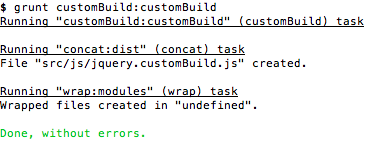
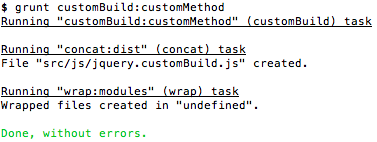
Updated jqcon talk

diff --git a/index.html b/index.html
@@ -15,6 +15,7 @@
           <img src="imgs/jqueryui.png" alt="" title="jQueryUI Widget Factory">
           <img src="imgs/constructionhat.png" alt="" title="jqfactory">
           <img src="imgs/grunt.jpeg" alt="" title="Grunt">
+          <img src="imgs/downloadbuilder.png" alt="" title="DownloadBuilder" class="downloadbuilder-img">
         </div>
         Slides: <a href="http://gregfranko.com/modular-jquery-plugins-talk/">http://gregfranko.com/modular-jquery-plugins-talk/</a>
       </section>
@@ -175,32 +176,32 @@ $.widget("an.example", {
             Create a web build process
         </li>
       </section>
-      <section data-bespoke-state="pre-progress clean color concave" class="font">
-        <h2 data-bespoke-bullet>Let's Create Our First File!</h2>
-          <li data-bespoke-bullet>
-            <span class="bold">This file will hold our plugin constructor function</span>
-            <pre>
-<code data-language="javascript">
-// _create.js
-// ----------
-var example = {};
-example._create = function() {
-  // Our constructor logic goes here
-};
-              </code>
-          </pre>
-          </li>
-      </section>
       <section data-bespoke-state="pre-progress clean color cards" class="font">
-        <h2 data-bespoke-bullet>On To The Next File!</h2>
+        <h2 data-bespoke-bullet>Let's Create Our First File!</h2>
           <li data-bespoke-bullet>
             <span class="bold">This file will hold our default options</span>
             <pre>
 <code data-language="javascript">
 // options.js
 // ----------
+var example = {};
 example.options = {
   someOption: true
+};
+              </code>
+          </pre>
+          </li>
+      </section>
+      <section data-bespoke-state="pre-progress clean color concave" class="font">
+        <h2 data-bespoke-bullet>On To The Next File!</h2>
+          <li data-bespoke-bullet>
+            <span class="bold">This file will hold our plugin constructor function</span>
+            <pre>
+<code data-language="javascript">
+// _create.js
+// ----------
+example._create = function() {
+  // Our constructor logic goes here
 };
               </code>
           </pre>
@@ -309,7 +310,7 @@ $.widget("an.example", example);
           </li>
       </section>
       <section data-bespoke-state="pre-progress clean color coverflow" class="font">
-        <h2 data-bespoke-bullet class="smaller-header slide-header">jQueryUI Widget Factory or jfactory?</h2>
+        <h2 data-bespoke-bullet class="smaller-header slide-header">jQueryUI Widget Factory or jqfactory?</h2>
         <div class="bullet-grouping clear jquery-widget-factory">
           <li data-bespoke-bullet><span class="bold">It depends</span></li>
           <li data-bespoke-bullet>Both are great solutions with fundamental differences</li>
@@ -415,6 +416,20 @@ grunt.registerTask('customBuild', 'customBuild task', function() {
           <span class="bold">On The Command Line:</span>
           <pre>
             <code data-language="javascript">
+            grunt customBuild
+            </code>
+          </pre>
+        </li>
+        <li data-bespoke-bullet>
+          <span class="bold">This would include all of our files</span>
+        </li>
+      </section>
+      <section data-bespoke-state="pre-progress clean color coverflow" class="font">
+        <h2 data-bespoke-bullet>Excluding a File In Your Build</h2>
+        <li data-bespoke-bullet>
+          <span class="bold">On The Command Line:</span>
+          <pre>
+            <code data-language="javascript">
             grunt customBuild:customMethod
             </code>
           </pre>
@@ -474,12 +489,121 @@ $.widget("an.example", example);
             Create a web build process
         </li>
       </section>
+      <section data-bespoke-state="pre-progress clean color cards" class="font">
+        <h2 data-bespoke-bullet class="">Web Custom Build</h2>
+        <div class="inspiration-images">
+          <li data-bespoke-bullet>
+            With DownloadBuilder.js!
+          </li>
+        </div>
+      </section>
+      <section data-bespoke-state="pre-progress clean color cards" class="font">
+        <img src="imgs/downloadbuilder.png" alt="" title="jQueryUI Widget Factory" class="float-left margin-left downloadbuilder-page-img">
+        <h2 data-bespoke-bullet class="float-left margin-left">DownloadBuilder.js</h2>
+        <div class="bullet-grouping clear margin-left">
+          <li data-bespoke-bullet>
+            Fetches and Concatenates Files From Github
+          </li>
+          <li data-bespoke-bullet>
+            Saves files using the HTML5 FileSystem API
+          </li>
+          <li data-bespoke-bullet>
+            Supports caching via HTML5 Session Storage
+          </li>
+        </div>
+      </section>
+      <section data-bespoke-state="pre-progress clean color cards" class="font">
+      <h2 data-bespoke-bullet>First Step</h2>
+          <li data-bespoke-bullet>
+            <span class="bold">Create your HTML</span>
+          </li>
+          <li data-bespoke-bullet>
+            <pre class="downloadbuilder-example">
+<code data-language="html">
+<input class="hidden" checked="checked" type="checkbox" value="src/js/options.js">
+<input class="hidden" checked="checked" type="checkbox" value="src/js/_create.js">
+<input class="hidden" checked="checked" type="checkbox" value="src/js/_plugin.js">
+<input class="visible" type="checkbox" value="src/js/customMethod.js">
+              </code>
+          </pre>
+          </li>
+      </section>
+      <section data-bespoke-state="pre-progress clean color cards" class="font">
+      <h2 data-bespoke-bullet>Second Step</h2>
+          <li data-bespoke-bullet>
+            <span class="bold">Create a builder instance</span>
+          </li>
+          <li data-bespoke-bullet>
+            <pre class="downloadbuilder-example2">
+<code data-language="javascript">
+                  var builder = new DownloadBuilder({
+                    location: 'github',
+                    author: 'gfranko',
+                    repo: 'jquery.examplePlugin.js',
+                    branch: 'master',
+                    cache: true,
+                    client_id: '',
+                    client_secret: ''
+                  });
+              </code>
+          </pre>
+          </li>
+          <li data-bespoke-bullet>
+            Sorry, you have to use the new keyword
+          </li>
+      </section>
+      <section data-bespoke-state="pre-progress clean color cards" class="font">
+      <h2 data-bespoke-bullet>Final Step</h2>
+          <li data-bespoke-bullet>
+            <span class="bold">Build Your File</span>
+          </li>
+          <li data-bespoke-bullet>
+            <pre class="downloadbuilder-example2">
+<code data-language="javascript">
+$('#generate-button').on('click', function() {
+  var checkedBoxes = $('#js-files:checked'),
+    fileName = 'jquery.examplePlugin.custom.js',
+    language = 'javascript';
+
+  builder.buildURL(checkedBoxes, fileName, language, function(data) {
+    /*
+    file - data.content
+    file url - data.url
+    file name - data.fileName
+    file language - data.lang
+    */
+  });
+
+});
+              </code>
+          </pre>
+          </li>
+      </section>
+      <section data-bespoke-state="pre-progress clean color cards" class="font">
+        <h2 data-bespoke-bullet class="">Live Example</h2>
+        <div class="inspiration-images">
+          <li data-bespoke-bullet>
+            <a href="http://gregfranko.com/jquery.selectBoxIt.js/customDownload.html" class="small-font">http://gregfranko.com/jquery.selectBoxIt.js/customDownload.html</a>
+          </li>
+        </div>
+      </section>
+      <section data-bespoke-state="pre-progress clean color cards" class="font">
+        <h2 data-bespoke-bullet class="">Closing Thoughts</h2>
+        <div class="inspiration-images">
+          <li data-bespoke-bullet>
+            JavaScript Is Finally Being Taken Seriously
+          </li>
+          <li data-bespoke-bullet>
+            <span class="bold">jQuery Plugins Should Be Too</span>
+          </li>
+        </div>
+      </section>
       <section data-bespoke-state="clean color simple progress" class="font">
-        <h2 data-bespoke-bullet>Thank You!</h2>
-        <li data-bespoke-bullet>
+        <h2>Thank You!</h2>
+        <li>
           <span class="bold">Github: </span> @gfranko
         </li>
-        <li data-bespoke-bullet>
+        <li>
           <span class="bold">Twitter: </span> @gregfranko
         </li>
       </section>

diff --git a/css/css.css b/css/css.css
@@ -519,3 +519,22 @@ article  pre {
   width: 600px;
   height: 220px;
 }
+.downloadbuilder-img {
+  height: 80px;
+}
+.downloadbuilder-page-img {
+  width: 150px !important;
+}
+.downloadbuilder-example {
+  font-size: 15px;
+  line-height: 22px;
+  padding-left: 25px;
+}
+.downloadbuilder-example2 {
+  font-size: 16px;
+  line-height: 22px;
+  padding-left: 50px;
+}
+.small-font {
+  font-size: 24px;
+}
